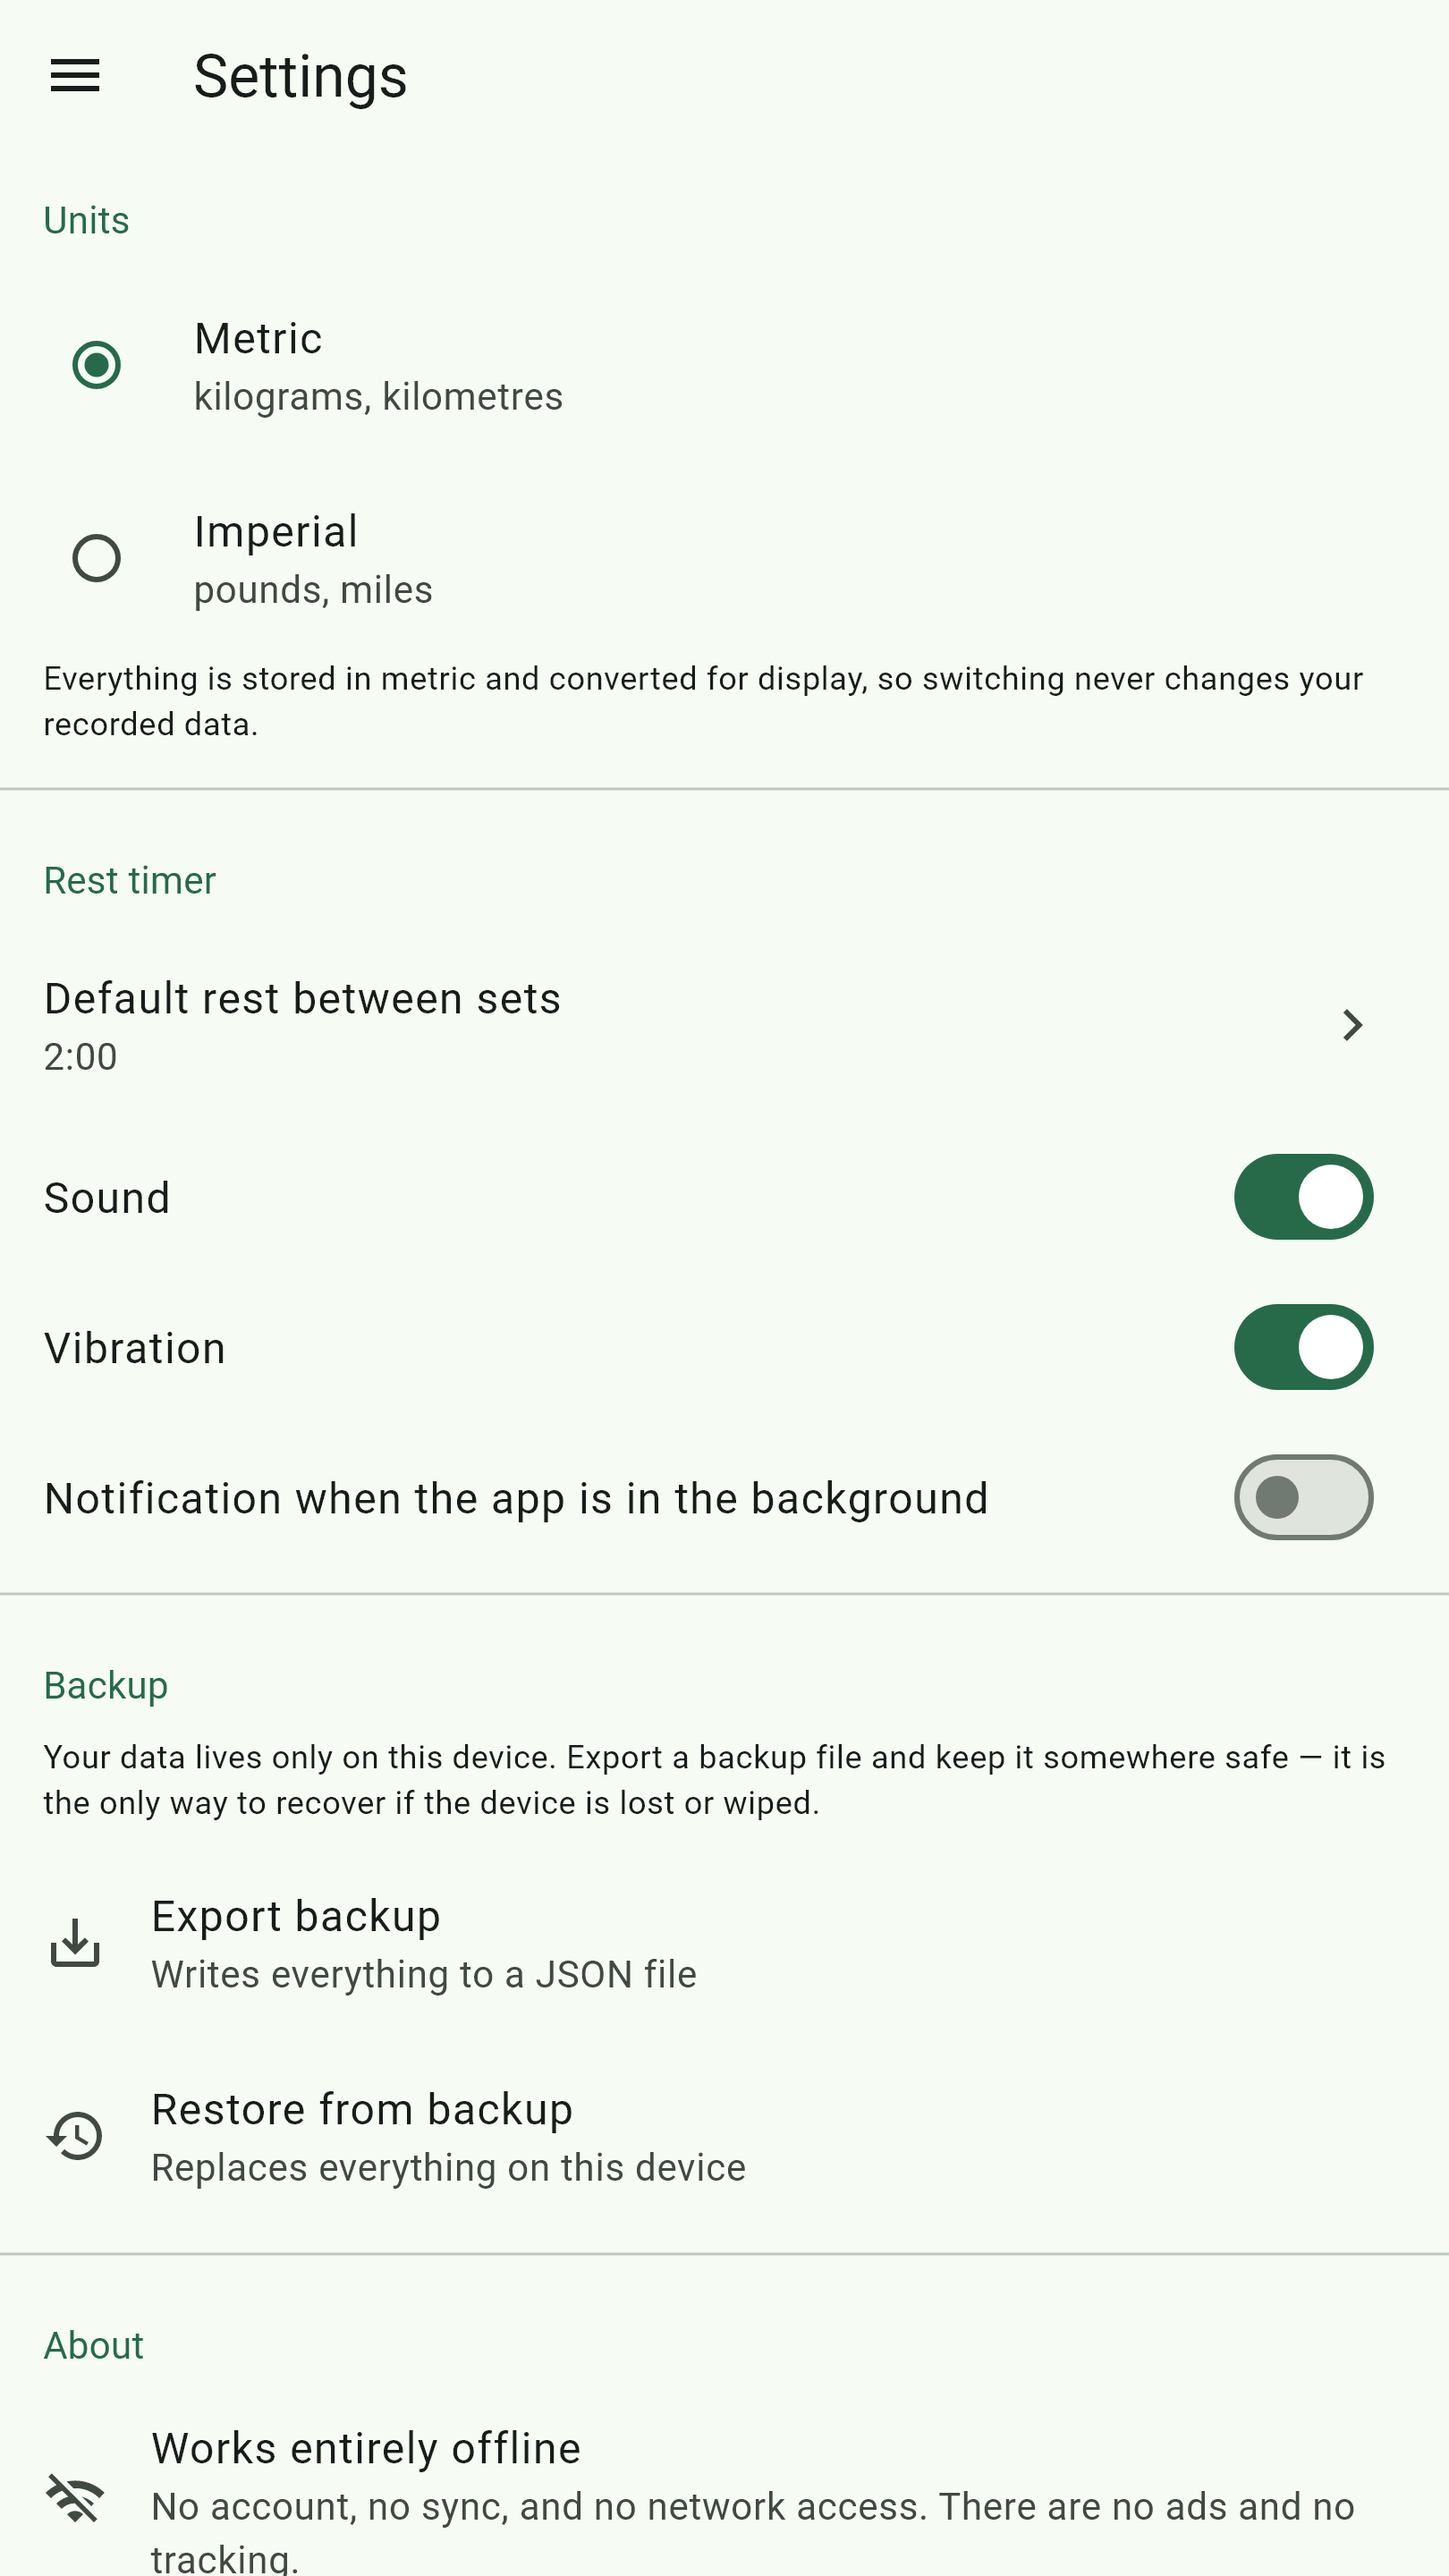
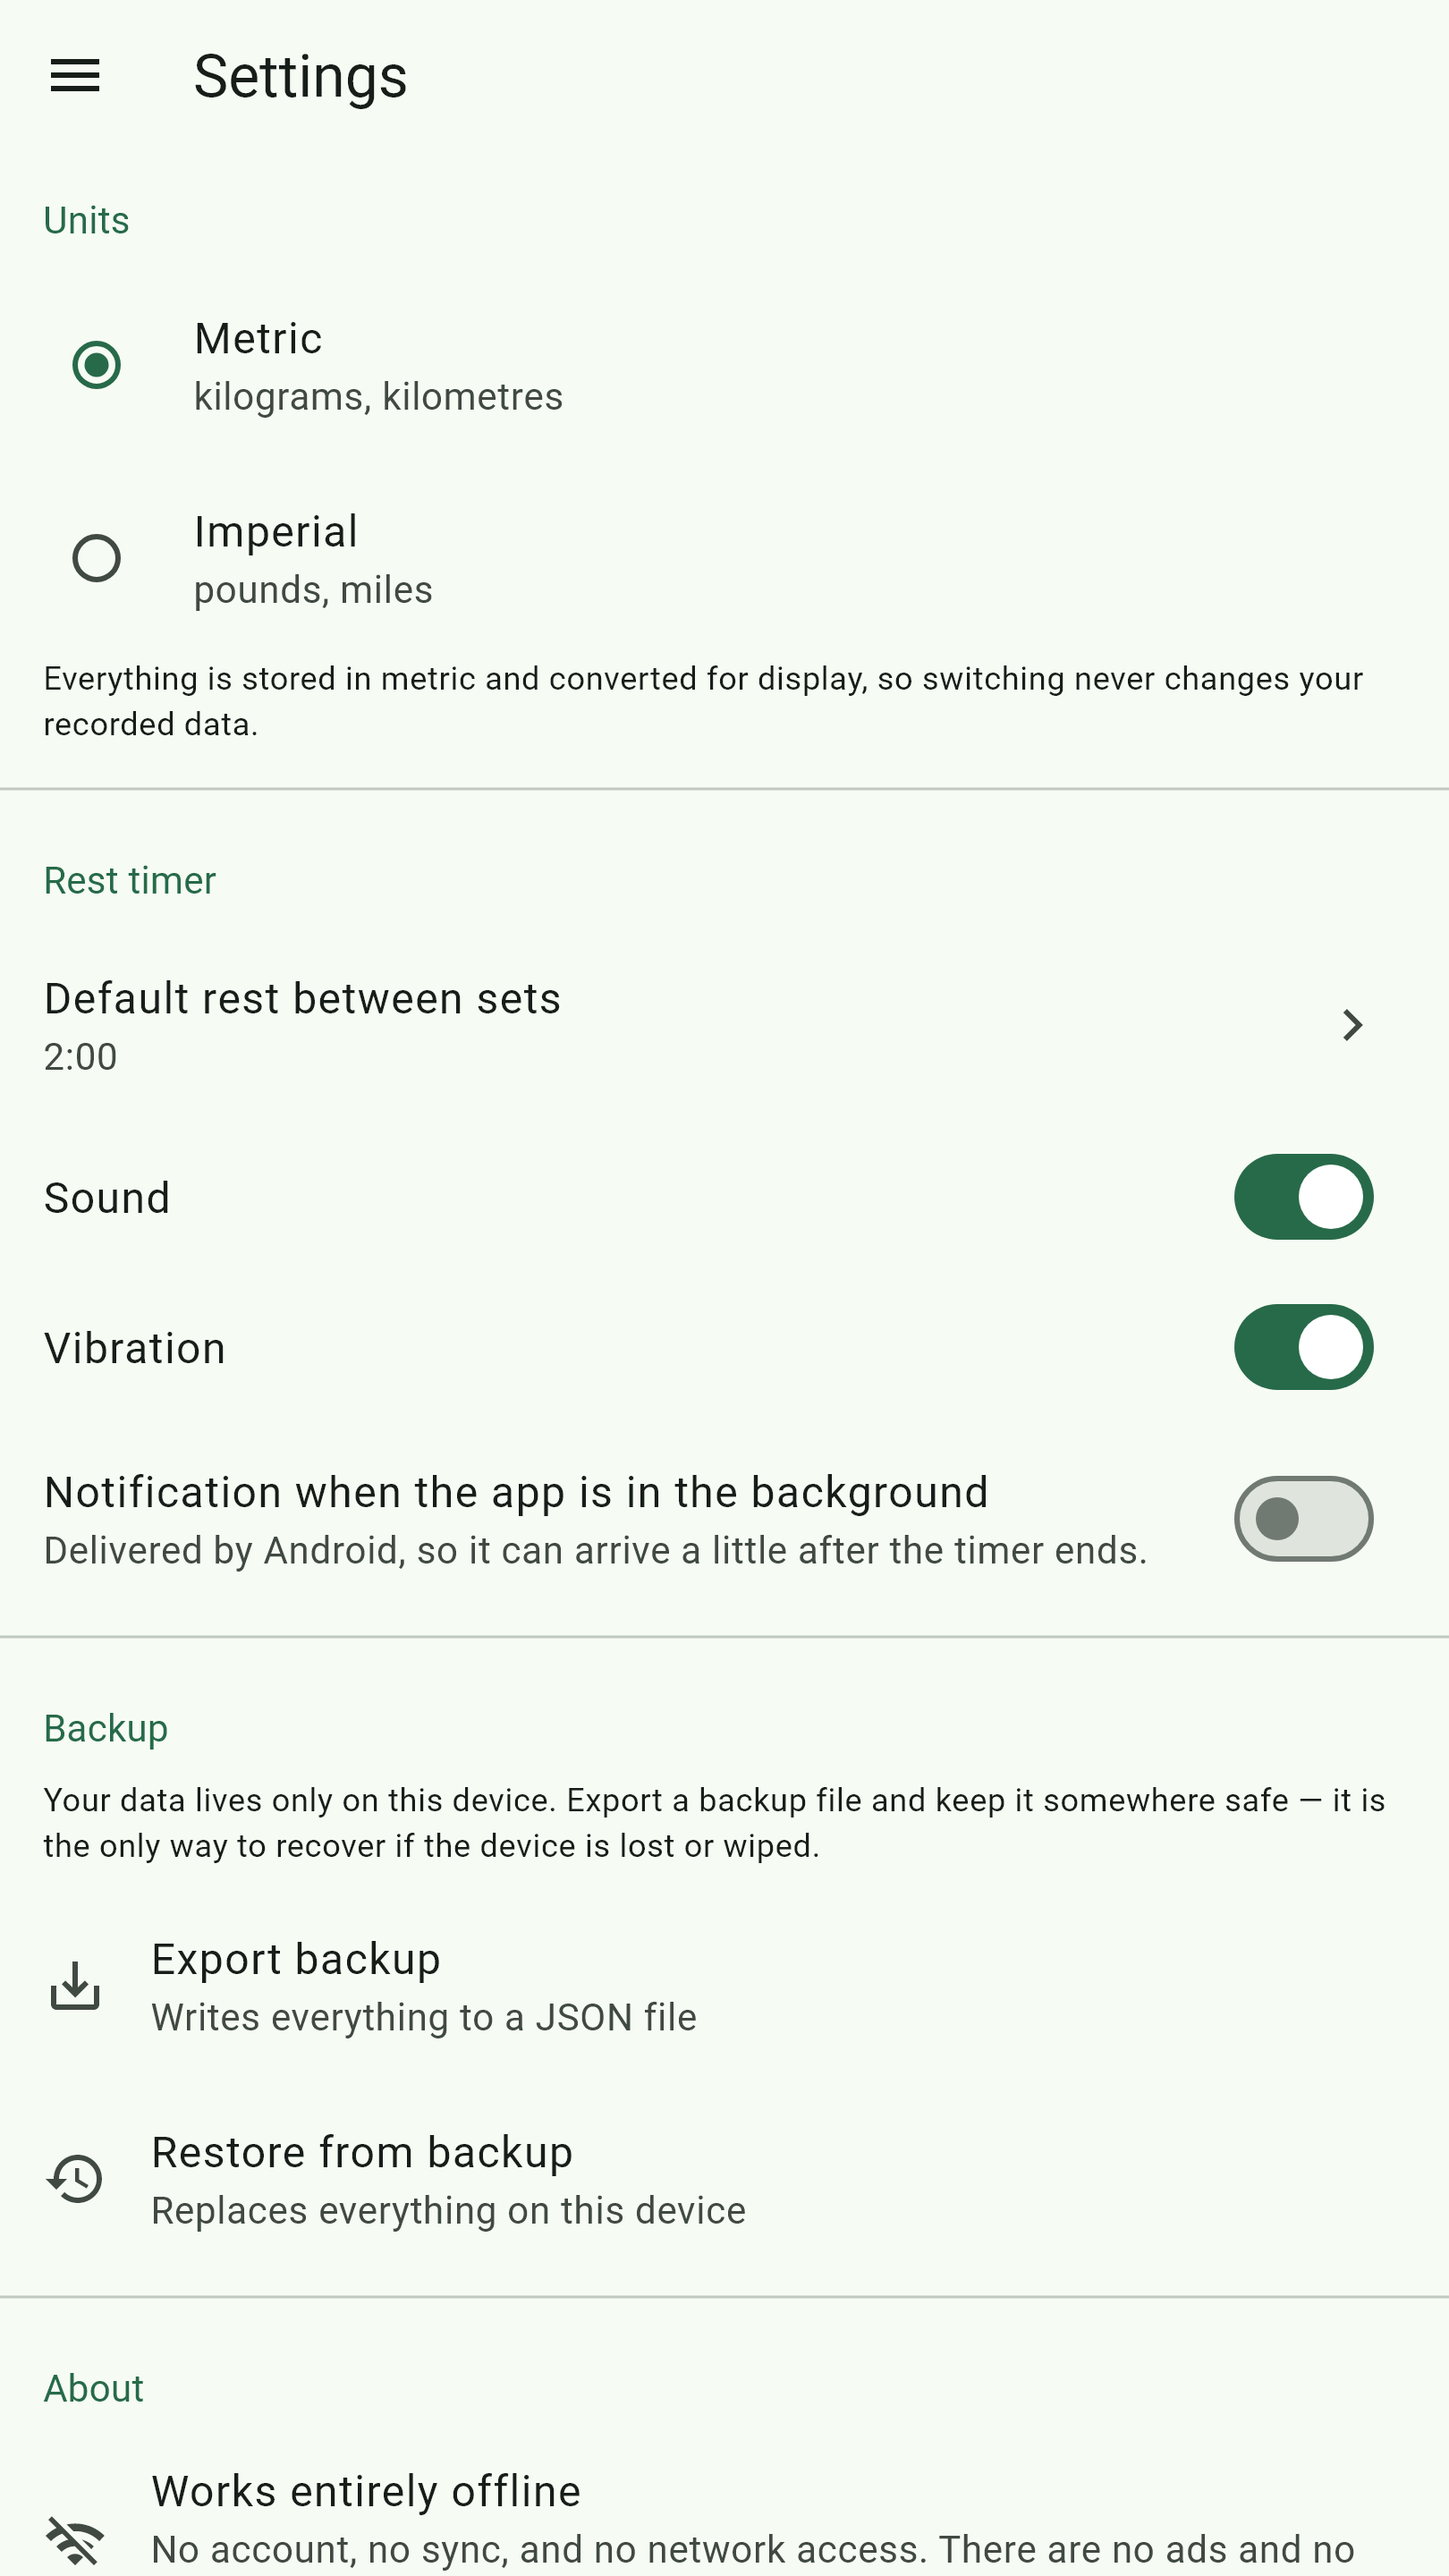
Say in Settings that the rest notification can arrive late
Dropping the exact-alarm permission handed delivery timing to Android,
which is the right trade for a training log but leaves the toggle
promising more than it can keep. A rest alert that lands a minute late
reads as a broken timer, and the setting gave no reason to think
otherwise.

_FlagTile grows an optional subtitle rather than the one tile growing a
special case, since any flag whose label does not fully describe its
behaviour will want the same line.

Screenshots regenerated: unlike the permission removal, this one is
visible.

diff --git a/lib/features/settings/settings_screen.dart b/lib/features/settings/settings_screen.dart
@@ -82,6 +82,12 @@ class SettingsScreen extends ConsumerWidget {
                 ),
                 const _FlagTile(
                   label: 'Notification when the app is in the background',
+                  // The app schedules no exact alarm, so delivery is Android's
+                  // call. Saying so here is cheaper than a user concluding the
+                  // rest timer is unreliable.
+                  subtitle:
+                      'Delivered by Android, so it can arrive a little after '
+                      'the timer ends.',
                   settingKey: SettingsRepository.keyRestNotificationEnabled,
                 ),
 
@@ -365,10 +371,18 @@ class _OpenSourceCredits extends StatelessWidget {
 }
 
 class _FlagTile extends ConsumerWidget {
-  const _FlagTile({required this.label, required this.settingKey});
+  const _FlagTile({
+    required this.label,
+    required this.settingKey,
+    this.subtitle,
+  });
 
   final String label;
   final String settingKey;
+
+  /// A second line, for a flag whose behaviour is not fully described by its
+  /// label.
+  final String? subtitle;
 
   @override
   Widget build(BuildContext context, WidgetRef ref) {
@@ -376,6 +390,7 @@ class _FlagTile extends ConsumerWidget {
 
     return SwitchListTile(
       title: Text(label),
+      subtitle: subtitle == null ? null : Text(subtitle!),
       value: value.value ?? true,
       onChanged: (enabled) => ref
           .read(settingsRepositoryProvider)
